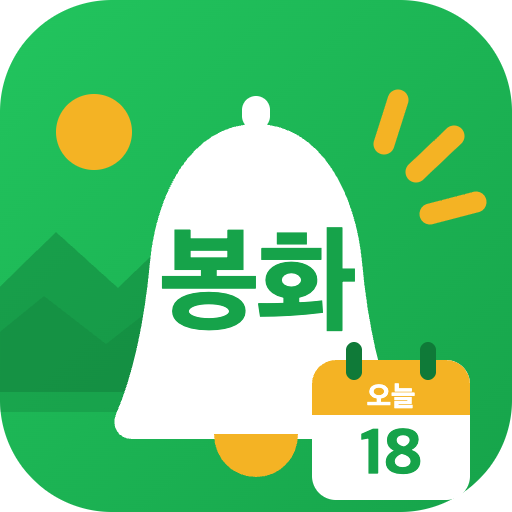
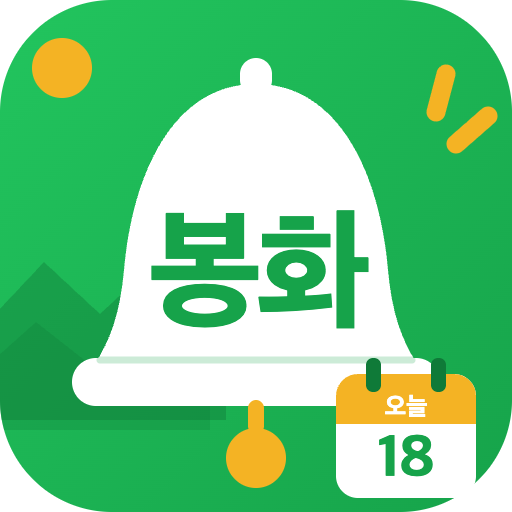
아이콘 최종 — 종을 크게 키워 봉화 글씨를 감싸고, 아가리 경계선과 달랑거리는 추 추가

Changed region(s): [[0.0, 0.0938, 0.9688, 1.0], [0.0625, 0.0625, 0.2812, 0.3438]]

diff --git a/build/make_icon.py b/build/make_icon.py
@@ -17,28 +17,43 @@ def build(day):
   <clipPath id="round"><rect width="512" height="512" rx="112"/></clipPath>
  </defs>
  <rect width="512" height="512" rx="112" fill="url(#bg)"/>
+
+ <!-- 배경: 해와 산 (종 뒤로 살짝) -->
  <g clip-path="url(#round)">
-  <circle cx="94" cy="132" r="38" fill="#F4B324"/>
-  <path d="M-20 306 L56 232 L118 288 L188 220 L258 306 L258 392 L-20 392Z" fill="#0F7A38" opacity=".45"/>
-  <path d="M-20 348 L44 296 L106 344 L170 294 L240 356 L240 412 L-20 412Z" fill="#0F7A38" opacity=".3"/>
+  <circle cx="62" cy="68" r="30" fill="#F4B324"/>
+  <path d="M-20 330 L44 262 L100 314 L160 258 L226 330 L226 420 L-20 420Z" fill="#0F7A38" opacity=".42"/>
+  <path d="M-20 372 L36 322 L92 366 L146 320 L210 378 L210 430 L-20 430Z" fill="#0F7A38" opacity=".28"/>
  </g>
- <g stroke="#F4B324" stroke-width="21" stroke-linecap="round">
-  <path d="M398 100 L384 144"/><path d="M454 136 L416 172"/><path d="M476 202 L430 214"/>
+
+ <!-- 반짝임 -->
+ <g stroke="#F4B324" stroke-width="19" stroke-linecap="round">
+  <path d="M446 74 L436 112"/><path d="M488 116 L456 144"/>
  </g>
- <rect x="242" y="96" width="28" height="34" rx="14" fill="#fff"/>
- <path d="M256 124c-66 0-100 72-106 138-6 66-19 118-34 152-5 12 2 25 16 25h248c14 0 21-13 16-25-15-34-28-86-34-152-6-66-40-138-106-138Z" fill="#fff"/>
- <text x="256" y="322" font-family="-apple-system,'Apple SD Gothic Neo','Noto Sans KR',sans-serif"
-       font-size="116" font-weight="800" fill="#16A34A" text-anchor="middle" letter-spacing="-3">봉화</text>
- <path d="M214 434h84c0 25-19 43-42 43s-42-18-42-43Z" fill="#F4B324"/>
+
+ <!-- 종 (봉화 글씨를 넉넉히 감싸도록 크게) -->
+ <rect x="240" y="58" width="32" height="38" rx="16" fill="#fff"/>
+ <path d="M256 84c-84 0-124 92-132 186-4 44-14 70-28 92h320c-14-22-24-48-28-92-8-94-48-186-132-186Z" fill="#fff"/>
+ <!-- 종 입(테두리) — 넓게 벌어진 아가리 -->
+ <rect x="72" y="358" width="368" height="48" rx="24" fill="#fff"/>
+ <!-- 몸통과 아가리 경계선 — 이게 있어야 종으로 보인다 -->
+ <path d="M100 360H412" stroke="#16A34A" stroke-width="7" stroke-linecap="round" opacity=".22"/>
+ <!-- 달랑거리는 추 (아가리 아래로 완전히 내려온다) -->
+ <rect x="248" y="400" width="16" height="34" rx="8" fill="#F4B324"/>
+ <circle cx="256" cy="458" r="30" fill="#F4B324"/>
+
+ <text x="256" y="318" font-family="-apple-system,'Apple SD Gothic Neo','Noto Sans KR',sans-serif"
+       font-size="132" font-weight="800" fill="#16A34A" text-anchor="middle" letter-spacing="-6">봉화</text>
+
+ <!-- 오늘 날짜 -->
  <g>
-  <rect x="312" y="360" width="158" height="140" rx="24" fill="#fff"/>
-  <path d="M312 384a24 24 0 0 1 24-24h110a24 24 0 0 1 24 24v31H312Z" fill="#F4B324"/>
-  <rect x="346" y="342" width="16" height="38" rx="8" fill="#0F7A38"/>
-  <rect x="420" y="342" width="16" height="38" rx="8" fill="#0F7A38"/>
-  <text x="391" y="406" font-family="-apple-system,'Apple SD Gothic Neo','Noto Sans KR',sans-serif"
-        font-size="28" font-weight="800" fill="#fff" text-anchor="middle">오늘</text>
-  <text x="391" y="476" font-family="-apple-system,'Apple SD Gothic Neo','Noto Sans KR',sans-serif"
-        font-size="64" font-weight="800" fill="#16A34A" text-anchor="middle">{day}</text>
+  <rect x="336" y="374" width="140" height="124" rx="22" fill="#fff"/>
+  <path d="M336 396a22 22 0 0 1 22-22h96a22 22 0 0 1 22 22v28H336Z" fill="#F4B324"/>
+  <rect x="366" y="358" width="15" height="34" rx="7" fill="#0F7A38"/>
+  <rect x="431" y="358" width="15" height="34" rx="7" fill="#0F7A38"/>
+  <text x="406" y="415" font-family="-apple-system,'Apple SD Gothic Neo','Noto Sans KR',sans-serif"
+        font-size="25" font-weight="800" fill="#fff" text-anchor="middle">오늘</text>
+  <text x="406" y="478" font-family="-apple-system,'Apple SD Gothic Neo','Noto Sans KR',sans-serif"
+        font-size="58" font-weight="800" fill="#16A34A" text-anchor="middle">{day}</text>
  </g>
 </svg>
 '''
